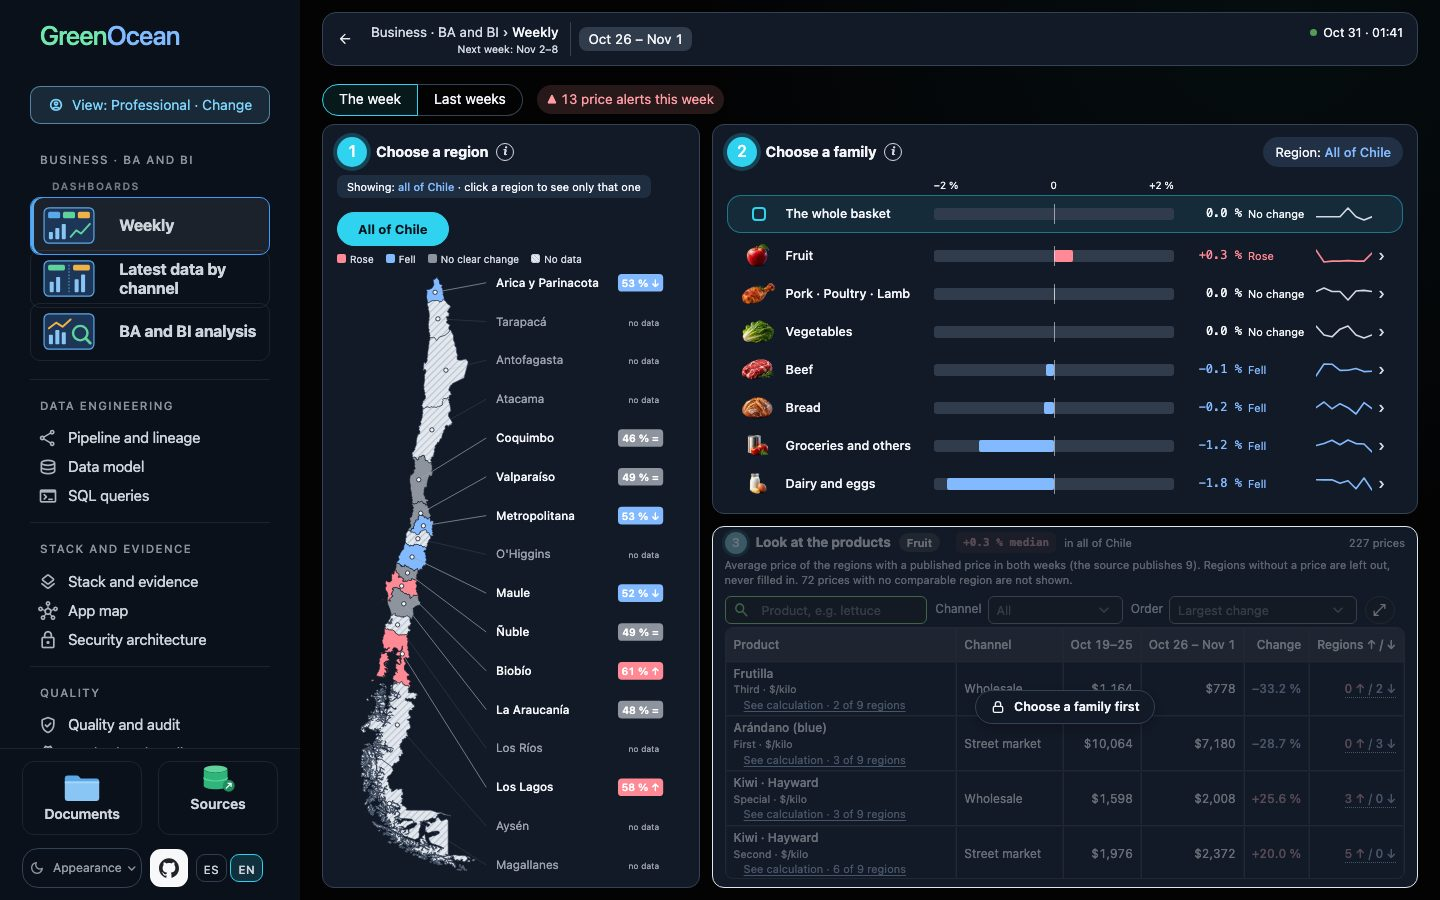
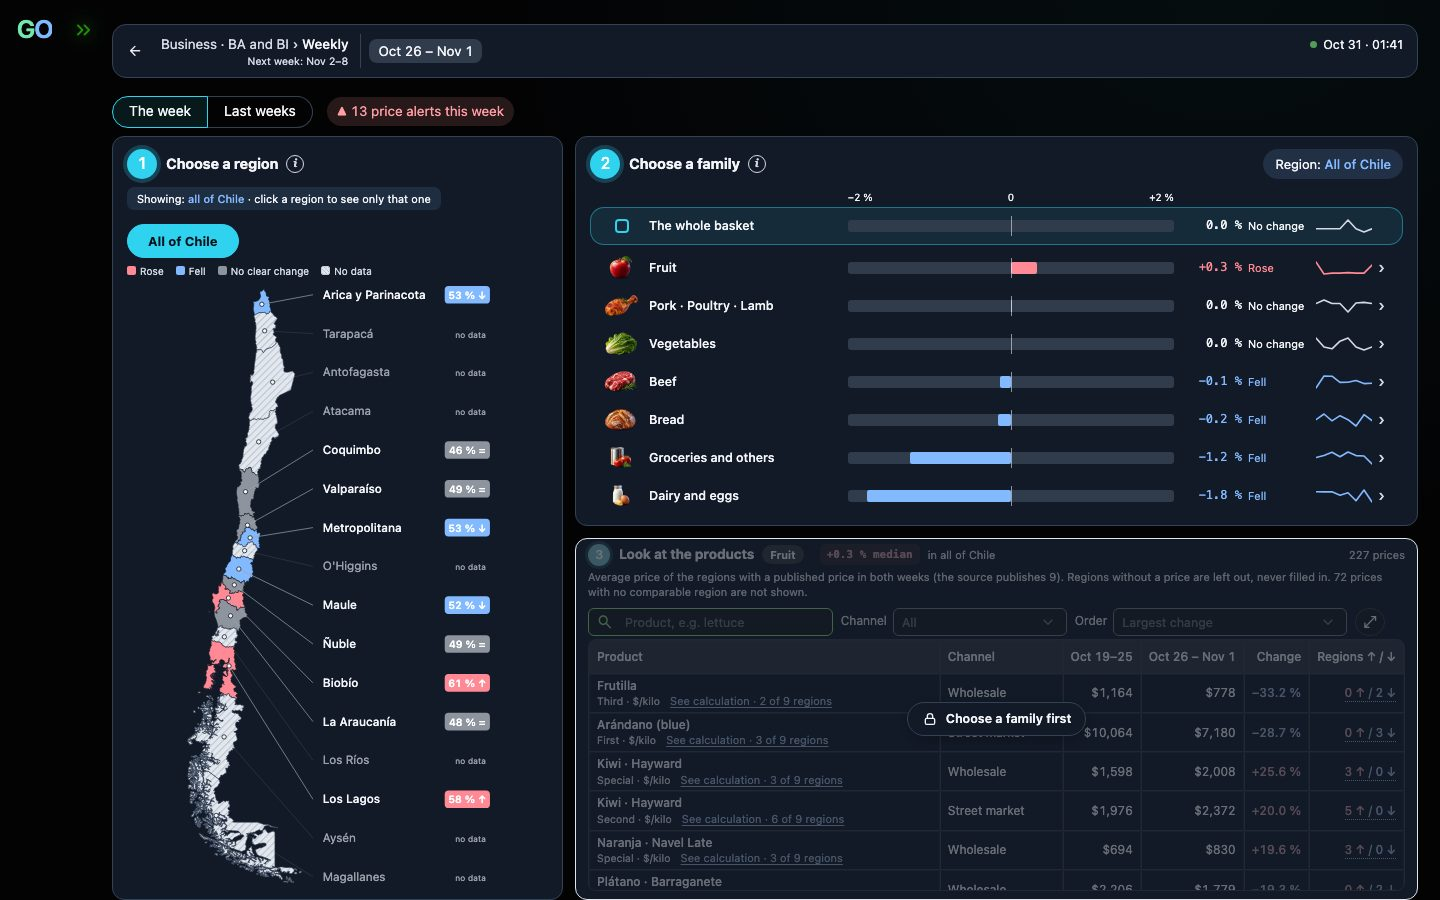
feat(menu): los tres dashboards abren con el menú plegado, su botón palpita en verde y la página sube (D-462)
Al abrir Semanal, Último dato por canal o Análisis BA y BI, el menú se
pliega una vez y el botón que lo abre late en el verde flúor de
GreenOcean; abierto a mano, sigue abierto en esa página. Con el menú
plegado la página empieza arriba, junto al logo, sin la franja vacía.

diff --git a/bi/dashboard.py b/bi/dashboard.py
@@ -10,6 +10,7 @@ The color modes and chart palettes live in bi/charts.py.
 
 import base64
 import contextvars
+import hashlib
 import html
 import importlib
 import json
@@ -2246,7 +2247,10 @@ def show_app_header(window):
     st.markdown(
         f"""<style>
     [data-testid="stElementContainer"]:has([data-testid="stMarkdownContainer"] > style:only-child) {{display:none;}}
-    .stApp:has([data-testid="stSidebar"][data-collapsed="true"]) [data-testid="stMainBlockContainer"] {{padding-top:54px !important;}}
+    /* D-462: with the menu folded, the page starts at the top, to the right of the logo and its unfold button, instead
+       of leaving a band under them. */
+    .stApp:has([data-testid="stSidebar"][data-collapsed="true"]) [data-testid="stMainBlockContainer"] {{padding-top:12px !important;
+        padding-left:112px !important;}}
     .reading-guide {{font-size:.8rem; margin:5px 0 14px; color:{palette['text']};}}
     .reading-term {{font-size:inherit; margin-left:0; border-bottom:1px dotted currentColor; font-weight:400;}}
     .regional-detail {{width:100%; font-size:.75rem; border-collapse:collapse;}}
@@ -8318,6 +8322,7 @@ def render_window(window, pages=None):
         if pages:
             show_route_footer(window, pages, view)
         show_attribution()
+    show_dashboard_menu_fold(view, mode)
     st.html(
         PHONE_LAYOUT_HTML
         + FOLD_SIDEBAR_SCRIPT
@@ -8326,6 +8331,54 @@ def render_window(window, pages=None):
         + build_visit_history_script(),
         unsafe_allow_javascript=True,
     )
+
+
+# D-462: a dashboard opens with the menu folded, so its charts get the width; the button that unfolds it beats in the
+# green of GreenOcean (D-450), so it is seen. It folds once per page opened: a menu the reader opens stays open while
+# the reader works on that page. A phone turned sideways keeps its menu open (D-166).
+DASHBOARD_FOLD_SCRIPT = r"""<script>
+(() => {
+    const view = "__VIEW__";
+    const fold = "__FOLD__" === "yes";
+    if (window.__goFoldedView === view) return;
+    window.__goFoldedView = view;
+    if (!fold || window.matchMedia("(orientation: landscape) and (max-height: 500px)").matches) return;
+    let tries = 0;
+    const close = () => {
+        const sidebar = document.querySelector('[data-testid="stSidebar"]');
+        const button = document.querySelector('[data-testid="stSidebarCollapseButton"] button');
+        // Streamlit marks the menu with data-collapsed (aria-expanded in older versions)
+        const open = sidebar && (sidebar.dataset.collapsed === "false" || sidebar.getAttribute("aria-expanded") === "true");
+        if (open && button) { button.click(); return; }
+        if (sidebar && !open) return;
+        if (tries++ < 40) setTimeout(close, 100);
+    };
+    close();
+})();
+</script>"""
+
+
+def show_dashboard_menu_fold(view, mode):
+    """D-462: on the three dashboards the menu folds on opening and its button beats in green; elsewhere it stays."""
+    is_dashboard = view in DASHBOARD_TILES
+    if is_dashboard:
+        green = ba_green(mode)
+        st.markdown(
+            f"""<style>
+@keyframes go-menu-beat {{ 0%, 100% {{ filter:drop-shadow(0 0 2px {green}); opacity:1; }}
+  50% {{ filter:drop-shadow(0 0 9px {green}); opacity:.55; }} }}
+[data-testid="stSidebarCollapseButton"] button, [data-testid="stExpandSidebarButton"] {{ color:{green} !important;
+  animation:go-menu-beat 1.6s ease-in-out infinite; }}
+[data-testid="stSidebarCollapseButton"] button *, [data-testid="stExpandSidebarButton"] * {{ color:{green} !important; }}
+@media (prefers-reduced-motion:reduce) {{ [data-testid="stSidebarCollapseButton"] button,
+  [data-testid="stExpandSidebarButton"] {{ animation:none; filter:drop-shadow(0 0 4px {green}); }} }}
+</style>""",
+            unsafe_allow_html=True,
+        )
+    # the page as a neutral key: a page name in a script reads as Spanish text to the English layer (D-443)
+    key = hashlib.sha1(view.encode()).hexdigest()[:10]
+    script = DASHBOARD_FOLD_SCRIPT.replace("__VIEW__", key).replace("__FOLD__", "yes" if is_dashboard else "no")
+    st.html(script, unsafe_allow_javascript=True)
 
 
 # D-166: the panel is read in landscape. A phone held upright sees one screen asking to

diff --git a/tests/test_menu_order.py b/tests/test_menu_order.py
@@ -2,6 +2,7 @@
 and «Análisis BA y BI», which gathers the history of the prices and the former pages in its tabs; the app map lists the
 same pages in the same order."""
 
+import hashlib
 from pathlib import Path
 
 import pytest
@@ -178,3 +179,20 @@ def test_d459_the_three_dashboards_sit_under_their_title_and_the_old_address_ope
         assert [link.proto.label for link in app.sidebar.get("page_link")][:3] == labels
         assert f'<p class="nav-subtitle">{title}</p>' in " ".join(block.value for block in app.sidebar.markdown)
         assert f"<b>{labels[0]}</b>" in " ".join(block.value for block in app.main.markdown)  # the page it opened
+
+
+@needs_database
+def test_d462_a_dashboard_opens_with_the_menu_folded_and_its_button_beating_in_green():
+    script = dashboard.DASHBOARD_FOLD_SCRIPT
+    assert 'sidebar.dataset.collapsed === "false"' in script  # how Streamlit marks the menu today
+    assert "window.__goFoldedView === view" in script  # once per page opened: a menu opened by hand stays open
+    assert "<" not in script.replace("<script>", "").replace("</script>", "").replace("tries++ <", "")
+    for view, folds in ((dashboard.HOME_PAGE, True), (dashboard.PAGE_BA, True), (dashboard.PAGE_DIAGRAMS, False)):
+        app = draw("profesional", view)
+        assert not app.exception
+        scripts = [str(block.proto.body) for block in app.get("html") if "__goFoldedView" in str(block.proto.body)]
+        key = hashlib.sha1(view.encode()).hexdigest()[:10]  # the page as a neutral key, not a Spanish name
+        assert len(scripts) == 1 and f'const view = "{key}";' in scripts[0], view
+        assert ('"yes" === "yes"' in scripts[0]) is folds, view
+        beat = "animation:go-menu-beat" in " ".join(block.value for block in app.markdown)
+        assert beat is folds, view

diff --git a/docs/negocio/PRD.md b/docs/negocio/PRD.md
@@ -4,7 +4,7 @@
 |---|---|
 | Proyecto | GreenOcean |
 | Tipo de documento | Documento de requisitos del producto (PRD) |
-| Versión | 3.26 |
+| Versión | 3.27 |
 | Fecha | 02-11-2026 |
 | Estado | Vigente |
 | Responsable | El autor |
@@ -149,7 +149,7 @@ Con la carga del 31-10-2026, la base tiene 821.072 precios semanales en 252 sema
 
 Estas son seis capturas reales, del 02-11-2026, de cinco páginas principales y en los cuatro temas de color. El dashboard Semanal aparece dos veces: como lo ve el Usuario y como lo ve el Profesional. El tema oscuro es el de entrada.
 
-- **Menú:** cinco secciones: Negocio · BA y BI, Ingeniería de datos, DevOps y seguridad, Stack y evidencia, y Calidad. La primera reúne, bajo el título «Dashboards», tres recuadros con ícono de dashboard, que siguen a la vista aunque la sección se pliegue: Semanal, Último dato por canal y Análisis BA y BI (D-442, D-452, D-453, D-456, D-459).
+- **Menú:** cinco secciones: Negocio · BA y BI, Ingeniería de datos, DevOps y seguridad, Stack y evidencia, y Calidad. La primera reúne, bajo el título «Dashboards», tres recuadros con ícono de dashboard, que siguen a la vista aunque la sección se pliegue: Semanal, Último dato por canal y Análisis BA y BI (D-442, D-452, D-453, D-456, D-459). Los tres abren con el menú plegado, para dar el ancho a sus gráficos, y el botón que lo abre palpita en verde (D-462).
 - **Semanal:** se lee en tres pasos numerados. Primero se elige una región o todo Chile, después una familia, y al final se miran sus productos. Cada paso se abre al completar el anterior. Los tres pasos quedan siempre juntos en una sola pantalla; la tabla de productos llena el panel 3, se desplaza sola y se amplía con su propio botón (D-446, D-447).
 - **Último dato por canal:** una tarjeta por canal, con su ícono 3D en sus propios colores (D-453), su última semana, sus precios, su variación y las familias que publica. Cada tarjeta abre ese canal con los pasos del dashboard Semanal y se comporta igual que él, aunque la otra fuente todavía no publique esa semana (D-404 a D-406, D-452).
 - **Análisis BA y BI:** seis pestañas (D-456, D-457). «Mensual» es un período, los últimos 12 meses o un año, mes a mes: cinco cifras clave (cambio de precios, frente al IPC, brecha consumidor–mayorista, alertas de precio y mayor alza mensual), tres gráficos (precio mes a mes, cambio de cada mes y alertas de precio por mes) y la tabla por familia. «Histórico» es toda la historia, de enero 2022 al último mes que publicó el INE: cinco cifras clave (cambio desde enero 2022, frente al IPC, año de mayor alza, mes más barato y alertas de precio), tres gráficos (precio desde enero 2022, cambio de cada año y temporada) y la tabla por familia. Cada gráfico dice qué meses muestra, y su lupa verde lo abre en grande, con qué mide y qué se deduce; cada cifra explica al pasar el cursor cómo se calcula. Las otras cuatro son Precios e inflación, Insights, Interesados y Método. Sobre las pestañas, un recuadro verde dice qué se está viendo, de qué mes a qué mes y por qué empieza y termina ahí; cambia con la pestaña y el período (D-458).
@@ -246,3 +246,4 @@ Las siglas y los términos de este documento se definen en el [Glosario](GLOSARI
 | 3.24 | 02-11-2026 | Un recuadro verde sobre las pestañas de «Análisis BA y BI» dice qué se ve, de qué mes a qué mes y por qué, según la pestaña y el período (7, D-458) |
 | 3.25 | 02-11-2026 | Los tres dashboards de «Negocio · BA y BI» van bajo el título «Dashboards», y el primero, el de la semana, se llama «Semanal» (3.1 a 3.4, 4, 6, 7, D-459) |
 | 3.26 | 02-11-2026 | En «Análisis BA y BI» las tarjetas son más finas, los meses se leen en dos líneas cortas y una lupa verde abre cada gráfico en grande (7, D-460) |
+| 3.27 | 02-11-2026 | Los tres dashboards abren con el menú plegado y el botón que lo abre palpita en verde (7, D-462) |

diff --git a/docs/en/negocio/PRD.md b/docs/en/negocio/PRD.md
@@ -4,7 +4,7 @@
 |---|---|
 | Project | GreenOcean |
 | Document type | Product Requirements Document (PRD) |
-| Version | 3.26 |
+| Version | 3.27 |
 | Date | 2026-11-02 |
 | Status | Current |
 | Owner | The author |
@@ -149,7 +149,7 @@ With the load of 2026-10-31, the database holds 821,072 weekly prices over 252 w
 
 These are six real captures, of 2026-11-02, of five main pages and in the four color themes. The Weekly dashboard appears twice: as the User sees it and as the Professional sees it. The dark theme is the one on entry.
 
-- **Menu:** five sections: Business · BA and BI, Data engineering, DevOps and security, Stack and evidence, and Quality. The first gathers, under the title «Dashboards», three tiles with a dashboard icon, which stay in sight even when the section folds: Weekly, Latest data by channel and BA and BI analysis (D-442, D-452, D-453, D-456, D-459).
+- **Menu:** five sections: Business · BA and BI, Data engineering, DevOps and security, Stack and evidence, and Quality. The first gathers, under the title «Dashboards», three tiles with a dashboard icon, which stay in sight even when the section folds: Weekly, Latest data by channel and BA and BI analysis (D-442, D-452, D-453, D-456, D-459). The three open with the menu folded, to give their charts the width, and the button that opens it beats in green (D-462).
 - **Weekly:** it reads in three numbered steps. First a region or all of Chile is chosen, then a family, and last its products are shown. Each step opens when the one before is done. The three steps always stay together on one screen; the products table fills panel 3, scrolls by itself and is enlarged with its own button (D-446, D-447).
 - **Latest data by channel:** one card per channel, with its 3D icon in its own colours (D-453), its latest week, its prices, its change and the families it publishes. Each card opens that channel with the steps of the Weekly dashboard and behaves exactly like it, even if the other source has not published that week yet (D-404 to D-406, D-452).
 - **BA and BI analysis:** six tabs (D-456, D-457). «Monthly» is one period, the last 12 months or one year, month by month: five key figures (price change, against the CPI, consumer–wholesale gap, price alerts and biggest monthly rise), three charts (price month by month, change of each month and price alerts by month) and the table by family. «Historical» is the whole history, from January 2022 to the last month the INE published: five key figures (change since January 2022, against the CPI, year of the biggest rise, cheapest month and price alerts), three charts (price since January 2022, change of each year and season) and the table by family. Each chart says which months it shows, and its green magnifier opens it large, with what it measures and what follows from it; each figure explains on hover how it is computed. The other four are Prices and inflation, Insights, Stakeholders and Method. Above the tabs, a green panel says what is being shown, from which month to which and why it starts and ends there; it follows the tab and the period (D-458).
@@ -246,3 +246,4 @@ The acronyms and terms of this document are defined in the [Glossary](GLOSARIO.m
 | 3.24 | 2026-11-02 | A green panel above the tabs of «BA and BI analysis» says what is shown, from which month to which and why, by tab and period (7, D-458) |
 | 3.25 | 2026-11-02 | The three dashboards of «Business · BA and BI» go under the title «Dashboards», and the first, the week's, is called «Weekly» (3.1 to 3.4, 4, 6, 7, D-459) |
 | 3.26 | 2026-11-02 | In «BA and BI analysis» the cards are thinner, the months read in two short lines and a green magnifier opens each chart large (7, D-460) |
+| 3.27 | 2026-11-02 | The three dashboards open with the menu folded and the button that opens it beats in green (7, D-462) |

diff --git a/docs/DECISIONES.md b/docs/DECISIONES.md
@@ -3744,3 +3744,14 @@ Desde D-279, el plan de capacidad y escalabilidad es un documento propio: `docs/
 - **Decisión:** el piso de los gráficos sube a 230 px (210 px bajo 1400 px de ancho). La tabla por familia va en su propia caja, que se desplaza por dentro con el encabezado siempre a la vista, y toma el alto que queda, nunca menos de 140 px. En una ventana alta no cambia nada: la tabla cabe entera y no se desplaza.
 - **Medición (Playwright):** a 1440 × 790 los gráficos miden 230 px (antes 187) y la tabla muestra 7 de sus 9 filas; a 1440 × 900, 297 px y la tabla entera; a 1280 × 720, 210 px. Nada desplaza la página a 1440 × 900, 1440 × 790 ni 1280 × 720; a 1440 px de ancho, solo una ventana de menos de unos 720 px de alto desplaza la página.
 - **Pruebas:** `tests/test_ba_trends.py::test_d460_the_green_magnifier_opens_the_chart_large_in_a_window` revisa también el piso de los gráficos y la caja de la tabla.
+
+## D-462 · Los tres dashboards abren con el menú plegado y su botón palpita en verde
+
+- **Pedido del autor:** con el menú plegado, los dashboards se ven mejor, pero el botón para abrirlo casi no se veía. En los tres dashboards el menú se pliega solo, y el botón queda palpitando en verde flúor para mostrar que está ahí. Además, el espacio de arriba debe aprovecharse: quedaba una franja vacía sin razón (el autor eligió los tres dashboards, no solo Análisis BA y BI).
+- **Decisión:**
+  - **Menú plegado:** al abrir Semanal, Último dato por canal o Análisis BA y BI, el menú se pliega una vez. Si quien lee lo abre, queda abierto mientras siga en esa página; al abrir otro dashboard se pliega de nuevo. En las demás páginas no cambia nada. Un teléfono girado conserva su menú abierto (D-166).
+  - **Botón que palpita:** en los tres dashboards, el botón que pliega y despliega el menú va en el verde flúor de GreenOcean (D-450) y late con un brillo. Si el sistema pide menos movimiento, solo brilla.
+  - **Sin franja arriba:** con el menú plegado, la página empieza arriba, a la derecha del logo y del botón, en vez de dejar 54 px vacíos bajo ellos.
+  - **Detalle de Streamlit:** esta versión marca el menú con `data-collapsed`, no con `aria-expanded`; el guion lee los dos.
+- **Medición (Playwright):** Semanal abre con el menú plegado y el botón latiendo; abierto a mano, sigue abierto; Pipeline y linaje no late; Análisis BA y BI se pliega otra vez.
+- **Pruebas:** `tests/test_menu_order.py::test_d462_a_dashboard_opens_with_the_menu_folded_and_its_button_beating_in_green`.
